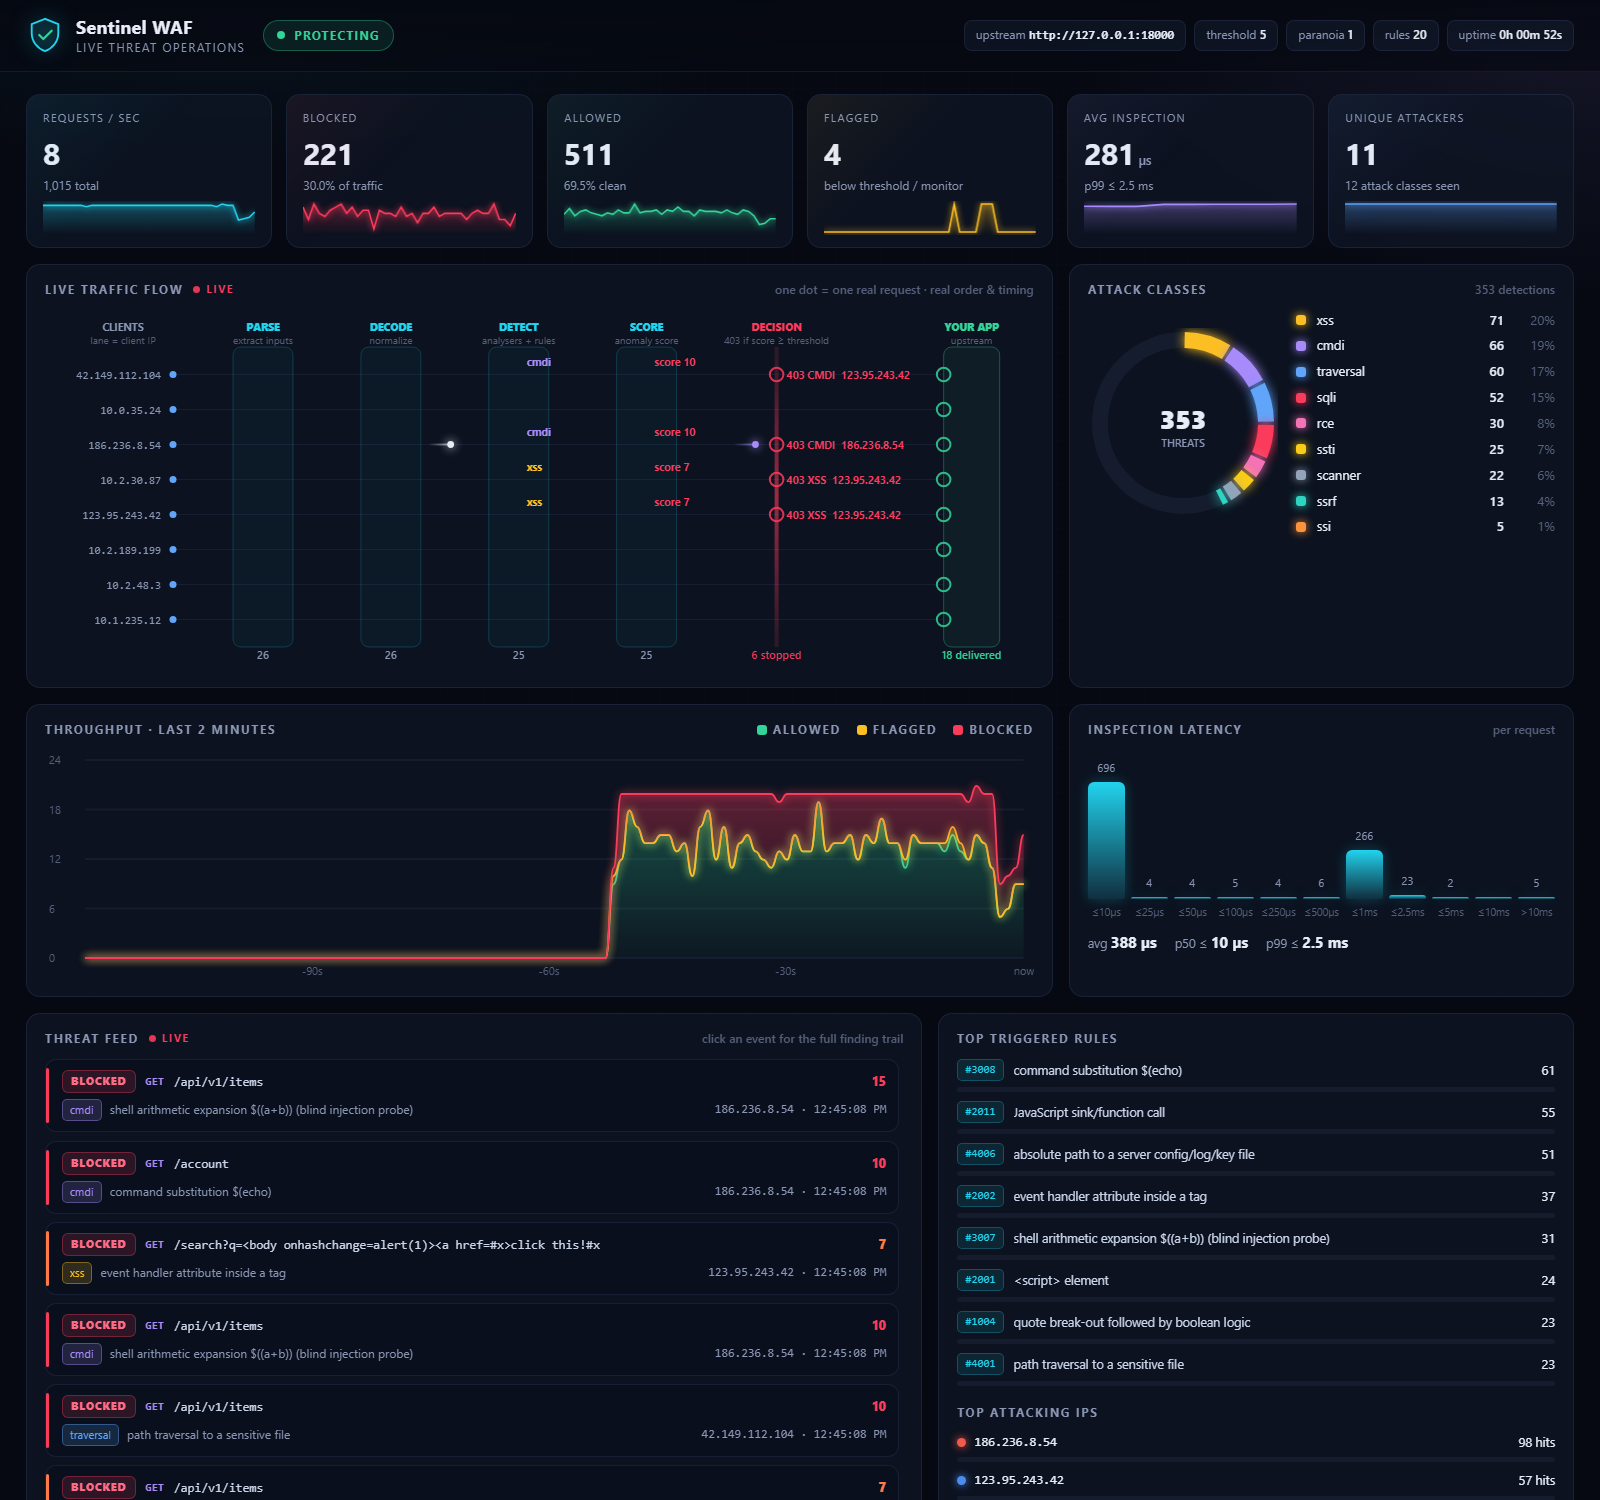
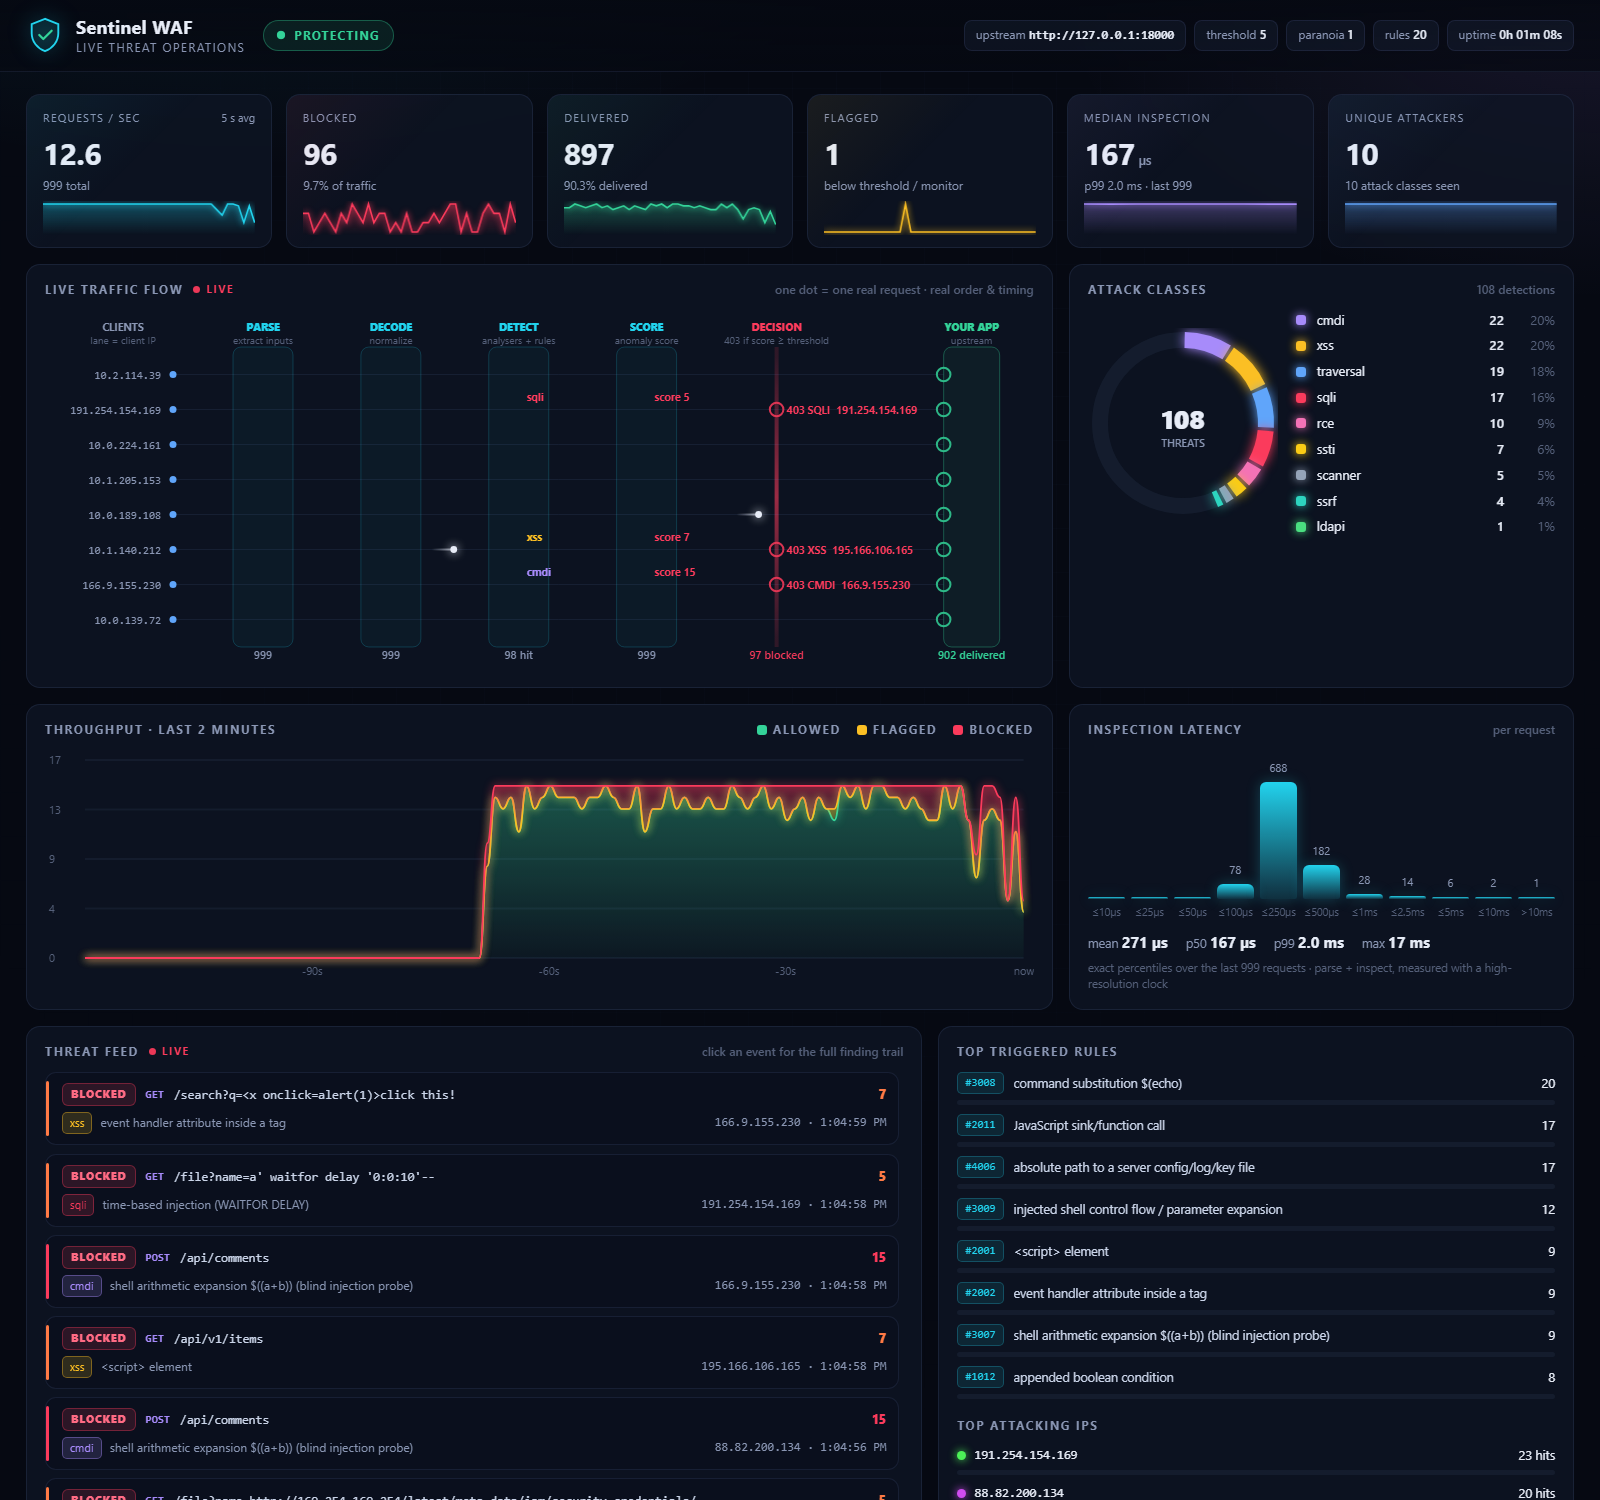
Dashboard: real, consistent numbers
- High-resolution clock for inspection timing (Windows' default clock is
  ~1 ms coarse, which produced fake-looking 0 / 1 ms latencies)
- Exact p50/p95/p99/max over the last 4,096 requests instead of
  histogram-bucket bounds
- Flow view counters use server totals, so they match the KPI cards
- Requests/sec is a 5-second average; cards show true values on load
- 'Delivered' counts everything not blocked (flagged requests included)

diff --git a/internal/server/dashboard.html b/internal/server/dashboard.html
@@ -158,11 +158,11 @@ footer a{color:var(--dim)}
 
 <main>
   <section class="kpis">
-    <div class="kpi" style="--accent:var(--cyan)"><div class="k">Requests / sec</div><div class="v num" id="k-rps">0</div><div class="sub" id="k-req">0 total</div><canvas id="s-rps"></canvas></div>
+    <div class="kpi" style="--accent:var(--cyan)"><div class="k">Requests / sec <span style="text-transform:none;letter-spacing:0">5 s avg</span></div><div class="v num" id="k-rps">0</div><div class="sub" id="k-req">0 total</div><canvas id="s-rps"></canvas></div>
     <div class="kpi" id="kpi-blk" style="--accent:var(--red)"><div class="k">Blocked</div><div class="v num" id="k-blk">0</div><div class="sub" id="k-blkr">0% of traffic</div><canvas id="s-blk"></canvas></div>
-    <div class="kpi" style="--accent:var(--green)"><div class="k">Allowed</div><div class="v num" id="k-ok">0</div><div class="sub" id="k-okr">clean traffic</div><canvas id="s-ok"></canvas></div>
+    <div class="kpi" style="--accent:var(--green)"><div class="k">Delivered</div><div class="v num" id="k-ok">0</div><div class="sub" id="k-okr">clean traffic</div><canvas id="s-ok"></canvas></div>
     <div class="kpi" style="--accent:var(--amber)"><div class="k">Flagged</div><div class="v num" id="k-flg">0</div><div class="sub">below threshold / monitor</div><canvas id="s-flg"></canvas></div>
-    <div class="kpi" style="--accent:var(--violet)"><div class="k">Avg inspection</div><div class="v num" id="k-lat">0<small>µs</small></div><div class="sub" id="k-p99">p99 ≤ –</div><canvas id="s-lat"></canvas></div>
+    <div class="kpi" style="--accent:var(--violet)"><div class="k">Median inspection</div><div class="v num" id="k-lat">0<small>µs</small></div><div class="sub" id="k-p99">p99 ≤ –</div><canvas id="s-lat"></canvas></div>
     <div class="kpi" style="--accent:var(--blue)"><div class="k">Unique attackers</div><div class="v num" id="k-ips">0</div><div class="sub" id="k-cats">0 attack classes</div><canvas id="s-ips"></canvas></div>
   </section>
 
@@ -185,7 +185,8 @@ footer a{color:var(--dim)}
     <div class="panel span4">
       <h2>Inspection latency <span class="right">per request</span></h2>
       <div class="hist" id="hist"></div>
-      <div class="lat-stats"><div>avg <b id="l-avg" class="num">–</b></div><div>p50 ≤ <b id="l-p50" class="num">–</b></div><div>p99 ≤ <b id="l-p99" class="num">–</b></div></div>
+      <div class="lat-stats"><div>mean <b id="l-avg" class="num">–</b></div><div>p50 <b id="l-p50" class="num">–</b></div><div>p99 <b id="l-p99" class="num">–</b></div><div>max <b id="l-max" class="num">–</b></div></div>
+      <div style="color:var(--faint);font-size:11.5px;margin-top:6px">exact percentiles over the last <span id="l-n">–</span> requests · parse + inspect, measured with a high-resolution clock</div>
     </div>
 
     <div class="panel span7">
@@ -228,6 +229,7 @@ const tweens = {};
 function setNum(id, target, f = fmt, suffix = "") {
   const t = tweens[id] || (tweens[id] = {cur: 0, target: 0});
   t.target = target; t.f = f; t.suffix = suffix;
+  if (first) { t.cur = target; } // show true values immediately; only later changes animate
 }
 function stepNums(dt) {
   for (const id in tweens) {
@@ -310,19 +312,19 @@ function flowFrame(dt) {
     roundRect(ctx, x - 30, g.top - 10, 60, g.bottom - g.top + 20, 8); ctx.fill(); ctx.stroke();
     ctx.fillStyle = "#22d3ee"; ctx.font = "800 10.5px Inter, system-ui"; ctx.fillText(name, x, 20);
     ctx.fillStyle = "#55607a"; ctx.font = "10px Inter, system-ui"; ctx.fillText(sub, x, 33);
-    ctx.fillStyle = "#8a96b3"; ctx.font = "600 11px Inter, system-ui"; ctx.fillText(fmt(flow.staged[i]), x, h - 12);
+    ctx.fillStyle = "#8a96b3"; ctx.font = "600 11px Inter, system-ui"; const T = flow.tot || {}; ctx.fillText(i === 2 ? fmt(T.withFindings || 0) + " hit" : fmt(T.inspected || 0), x, h - 12);
   });
   const gg = ctx.createLinearGradient(0, g.top, 0, g.bottom);
   gg.addColorStop(0, "rgba(251,59,92,.15)"); gg.addColorStop(.5, "rgba(251,59,92,.6)"); gg.addColorStop(1, "rgba(251,59,92,.15)");
   ctx.fillStyle = gg; ctx.fillRect(g.gate - 2, g.top - 10, 4, g.bottom - g.top + 20);
   ctx.fillStyle = "#fb3b5c"; ctx.font = "800 10.5px Inter, system-ui"; ctx.fillText("DECISION", g.gate, 20);
   ctx.fillStyle = "#55607a"; ctx.font = "10px Inter, system-ui"; ctx.fillText("403 if score ≥ threshold", g.gate, 33);
-  ctx.fillStyle = "#fb3b5c"; ctx.font = "600 11px Inter, system-ui"; ctx.fillText(fmt(flow.stopped) + " stopped", g.gate, h - 12);
+  ctx.fillStyle = "#fb3b5c"; ctx.font = "600 11px Inter, system-ui"; ctx.fillText(fmt((flow.tot || {}).blocked || 0) + " blocked", g.gate, h - 12);
   ctx.fillStyle = "rgba(52,211,153,.06)"; ctx.strokeStyle = "rgba(52,211,153,.35)";
   roundRect(ctx, g.app - 28, g.top - 10, 56, g.bottom - g.top + 20, 8); ctx.fill(); ctx.stroke();
   ctx.fillStyle = "#34d399"; ctx.font = "800 10.5px Inter, system-ui"; ctx.fillText("YOUR APP", g.app, 20);
   ctx.fillStyle = "#55607a"; ctx.font = "10px Inter, system-ui"; ctx.fillText("upstream", g.app, 33);
-  ctx.fillStyle = "#34d399"; ctx.font = "600 11px Inter, system-ui"; ctx.fillText(fmt(flow.delivered) + " delivered", g.app, h - 12);
+  ctx.fillStyle = "#34d399"; ctx.font = "600 11px Inter, system-ui"; ctx.fillText(fmt((flow.tot || {}).allowed || 0) + " delivered", g.app, h - 12);
   for (let i = 0; i < LANES; i++) {
     const y = g.laneY(i);
     ctx.strokeStyle = "rgba(120,150,220,.10)"; ctx.lineWidth = 1; ctx.beginPath(); ctx.moveTo(g.xc, y); ctx.lineTo(g.app - 28, y); ctx.stroke();
@@ -452,15 +454,16 @@ function render(d) {
   const up = s.uptime_seconds; $("uptime").textContent = `${Math.floor(up / 3600)}h ${String(Math.floor(up % 3600 / 60)).padStart(2, "0")}m ${String(up % 60).padStart(2, "0")}s`;
 
   const ser = s.series || []; tp.series = ser;
-  const last = ser.length > 1 ? ser[ser.length - 2] : { a: 0, b: 0, f: 0 };
-  const rps = last.a + last.b + last.f;
-  setNum("k-rps", rps); $("k-req").textContent = fmt(s.requests) + " total";
+  const full = ser.slice(-6, -1); // last 5 complete seconds
+  const rps = full.length ? full.reduce((t, p) => t + p.a + p.b + p.f, 0) / full.length : 0;
+  setNum("k-rps", rps, v => v.toFixed(1)); $("k-req").textContent = fmt(s.requests) + " total";
   const blockedAll = s.blocked + s.rate_limited + s.too_large;
   setNum("k-blk", blockedAll); $("k-blkr").textContent = (s.requests ? (100 * blockedAll / s.requests).toFixed(1) : "0") + "% of traffic";
-  const allowed = Math.max(0, s.requests - s.blocked - s.flagged);
-  setNum("k-ok", allowed); $("k-okr").textContent = (s.requests ? (100 * allowed / s.requests).toFixed(1) : "0") + "% clean";
+  const allowed = Math.max(0, s.requests - blockedAll); // delivered to the app (includes flagged)
+  setNum("k-ok", allowed); $("k-okr").textContent = (s.requests ? (100 * allowed / s.requests).toFixed(1) : "0") + "% delivered";
   setNum("k-flg", s.flagged);
-  setNum("k-lat", s.avg_inspect_us, v => Math.round(v), "<small>µs</small>"); $("k-p99").textContent = "p99 ≤ " + fmtUs(s.p99_inspect_us_le);
+  const rl = s.recent_latency || {};
+  setNum("k-lat", rl.p50_us || 0, v => Math.round(v), "<small>µs</small>"); $("k-p99").textContent = "p99 " + fmtUs(rl.p99_us || 0) + " · last " + fmt(rl.samples || 0);
   const ncat = Object.keys(s.categories || {}).length;
   setNum("k-ips", s.unique_attackers || 0); $("k-cats").textContent = ncat + " attack classes seen";
   if (blockedAll > lastBlocked && !first) { const k = $("kpi-blk"); k.classList.remove("flash"); void k.offsetWidth; k.classList.add("flash"); }
@@ -471,11 +474,12 @@ function render(d) {
   spark("s-blk", tail.map(p => p.b), "#fb3b5c");
   spark("s-ok", tail.map(p => p.a), "#34d399");
   spark("s-flg", tail.map(p => p.f), "#fbbf24");
-  hist.lat.push(s.avg_inspect_us); if (hist.lat.length > 40) hist.lat.shift(); spark("s-lat", hist.lat, "#a78bfa");
+  hist.lat.push(rl.p50_us || 0); if (hist.lat.length > 40) hist.lat.shift(); spark("s-lat", hist.lat, "#a78bfa");
   hist.ips.push(s.unique_attackers || 0); if (hist.ips.length > 40) hist.ips.shift(); spark("s-ips", hist.ips, "#60a5fa");
 
   // flow
   if (!first) scheduleBatch(s.events);
+  flow.tot = { inspected: s.requests, withFindings: s.blocked + s.flagged, blocked: blockedAll, allowed: Math.max(0, s.requests - blockedAll) };
 
   // donut + legend
   const cats = Object.entries(s.categories || {}).sort((a, b) => b[1] - a[1]);
@@ -494,7 +498,7 @@ function render(d) {
   const H = $("hist");
   if (H.children.length !== hb.length) H.innerHTML = hb.map((_, i) => `<div class="b"><div class="cnt num"></div><div class="bar"></div><div class="lbl">${labels[i]}</div></div>`).join("");
   hb.forEach((v, i) => { const b = H.children[i]; b.querySelector(".bar").style.height = Math.max(2, 128 * v / hmax) + "px"; b.querySelector(".cnt").textContent = v ? fmt(v) : ""; });
-  $("l-avg").textContent = fmtUs(s.avg_inspect_us); $("l-p50").textContent = fmtUs(s.p50_inspect_us_le); $("l-p99").textContent = fmtUs(s.p99_inspect_us_le);
+  $("l-avg").textContent = fmtUs(rl.mean_us || 0); $("l-p50").textContent = fmtUs(rl.p50_us || 0); $("l-p99").textContent = fmtUs(rl.p99_us || 0); $("l-max").textContent = fmtUs(rl.max_us || 0); $("l-n").textContent = fmt(rl.samples || 0);
 
   // threat feed
   const feed = $("feed"); const th = s.threats || [];

diff --git a/internal/server/metrics.go b/internal/server/metrics.go
@@ -19,6 +19,7 @@ const (
 	streamLen   = 400 // all recent requests (for the live flow view)
 	threatsLen  = 150 // recent requests with findings
 	maxIPsTrack = 2000
+	recentLen   = 4096
 )
 
 // EventFinding is one finding attached to a dashboard event.
@@ -62,6 +63,10 @@ type Metrics struct {
 	hist     [11]atomic.Int64 // len(bucketsMicros)+1
 	sumMicro atomic.Int64
 
+	durMu sync.Mutex
+	durs  [recentLen]int64 // last inspection durations, ns (exact percentiles)
+	durN  int
+
 	mu       sync.Mutex
 	seq      uint64
 	byCat    map[string]int64
@@ -86,6 +91,10 @@ func (m *Metrics) observe(res waf.Result, d time.Duration) {
 	us := float64(d.Nanoseconds()) / 1e3
 	m.sumMicro.Add(int64(us))
 	m.hist[sort.SearchFloat64s(bucketsMicros, us)].Add(1)
+	m.durMu.Lock()
+	m.durs[m.durN%recentLen] = d.Nanoseconds()
+	m.durN++
+	m.durMu.Unlock()
 	if len(res.Findings) == 0 {
 		return
 	}
@@ -166,6 +175,37 @@ func (m *Metrics) quantile(q float64) float64 {
 	return bucketsMicros[len(bucketsMicros)-1]
 }
 
+// LatencySummary holds exact percentiles over the most recent requests.
+type LatencySummary struct {
+	Samples int     `json:"samples"`
+	MeanUS  float64 `json:"mean_us"`
+	P50US   float64 `json:"p50_us"`
+	P95US   float64 `json:"p95_us"`
+	P99US   float64 `json:"p99_us"`
+	MaxUS   float64 `json:"max_us"`
+}
+
+func (m *Metrics) recentLatency() LatencySummary {
+	m.durMu.Lock()
+	n := m.durN
+	if n > recentLen {
+		n = recentLen
+	}
+	d := make([]int64, n)
+	copy(d, m.durs[:n])
+	m.durMu.Unlock()
+	if n == 0 {
+		return LatencySummary{}
+	}
+	sort.Slice(d, func(i, j int) bool { return d[i] < d[j] })
+	var sum int64
+	for _, v := range d {
+		sum += v
+	}
+	q := func(f float64) float64 { return float64(d[int(f*float64(n-1))]) / 1e3 }
+	return LatencySummary{Samples: n, MeanUS: float64(sum) / float64(n) / 1e3, P50US: q(.50), P95US: q(.95), P99US: q(.99), MaxUS: float64(d[n-1]) / 1e3}
+}
+
 // Named counts for sorted lists.
 type Named struct {
 	Key   string `json:"key"`
@@ -193,6 +233,7 @@ type Stats struct {
 	AvgInspectUS   float64          `json:"avg_inspect_us"`
 	P50InspectUS   float64          `json:"p50_inspect_us_le"`
 	P99InspectUS   float64          `json:"p99_inspect_us_le"`
+	Recent         LatencySummary   `json:"recent_latency"`
 	Categories     map[string]int64 `json:"categories"`
 	TopRules       []Named          `json:"top_rules"`
 	TopIPs         []Named          `json:"top_ips"`
@@ -236,6 +277,7 @@ func (m *Metrics) snapshot(since uint64, seriesSecs int) Stats {
 		P99InspectUS:   m.quantile(0.99),
 		Categories:     map[string]int64{},
 		HistBuckets:    bucketsMicros,
+		Recent:         m.recentLatency(),
 	}
 	if s.Requests > 0 {
 		s.AvgInspectUS = float64(m.sumMicro.Load()) / float64(s.Requests)

diff --git a/internal/server/clock_windows.go b/internal/server/clock_windows.go
@@ -1,0 +1,33 @@
+//go:build windows
+
+package server
+
+import (
+	"syscall"
+	"unsafe"
+)
+
+// On Windows the runtime's monotonic clock can tick as coarsely as ~0.5-1 ms,
+// which turns microsecond inspection times into 0 or 1 ms. Use the
+// high-resolution performance counter instead so dashboard latency is real.
+var (
+	k32     = syscall.NewLazyDLL("kernel32.dll")
+	qpc     = k32.NewProc("QueryPerformanceCounter")
+	qpf     = k32.NewProc("QueryPerformanceFrequency")
+	qpcFreq int64
+)
+
+func init() {
+	qpf.Call(uintptr(unsafe.Pointer(&qpcFreq)))
+}
+
+// nanotime returns a high-resolution monotonic timestamp in nanoseconds.
+func nanotime() int64 {
+	var c int64
+	qpc.Call(uintptr(unsafe.Pointer(&c)))
+	if qpcFreq <= 0 {
+		return 0
+	}
+	sec := c / qpcFreq
+	return sec*1e9 + (c%qpcFreq)*1e9/qpcFreq
+}

diff --git a/internal/server/server.go b/internal/server/server.go
@@ -107,9 +107,9 @@ func (s *Server) ServeHTTP(w http.ResponseWriter, r *http.Request) {
 		r.TransferEncoding = nil
 	}
 
-	start := time.Now()
+	start := nanotime()
 	res := s.engine.Inspect(waf.Extract(r, body))
-	took := time.Since(start)
+	took := time.Duration(nanotime() - start)
 	s.Metrics.observe(res, took)
 
 	block := res.Blocked && !s.opts.Monitor

diff --git a/internal/server/clock_other.go b/internal/server/clock_other.go
@@ -1,0 +1,10 @@
+//go:build !windows
+
+package server
+
+import "time"
+
+var epoch = time.Now()
+
+// nanotime returns a high-resolution monotonic timestamp in nanoseconds.
+func nanotime() int64 { return int64(time.Since(epoch)) }

diff --git a/docs/HOW-IT-WORKS.md b/docs/HOW-IT-WORKS.md
@@ -137,7 +137,7 @@ Open `http://127.0.0.1:9090` while Sentinel runs. Everything updates every secon
 | Panel | What it shows |
 |---|---|
 | **Header** | Protecting or monitoring status, upstream, threshold, paranoia level, rule count, uptime |
-| **KPI cards** | Requests per second, blocked, allowed, flagged (scored but under the threshold), average inspection time and p99, unique attacker IPs. Each card has a 40-second sparkline. |
+| **KPI cards** | Requests per second (5-second average), blocked, delivered (everything not blocked), flagged (scored but under the threshold, still delivered), median inspection time with p99, and unique attacker IPs. Each card has a 40-second sparkline. Latency is measured with a high-resolution clock, and its percentiles are exact over the last 4,096 requests, not estimated from buckets. |
 | **Live traffic flow** | **One dot is one real request**, replayed in its real order and timing from the server timestamps, all at the same speed. Each active client IP gets its own lane. A dot moves through the actual pipeline: **PARSE, DECODE, DETECT, SCORE, DECISION, YOUR APP**. It stays white until DETECT, which is where Sentinel learns what it is; there it takes its attack colour and label. SCORE shows its real anomaly score. At DECISION a blocked request stops with `403 <class> <ip>`, and an allowed one turns green and continues to the app. Each stage column counts the requests that have passed it. Nothing in this view is random or decorative. |
 | **Attack classes** | Animated donut chart of detections by category |
 | **Throughput** | Allowed, flagged and blocked requests per second over the last 2 minutes. Hover for exact numbers. |
